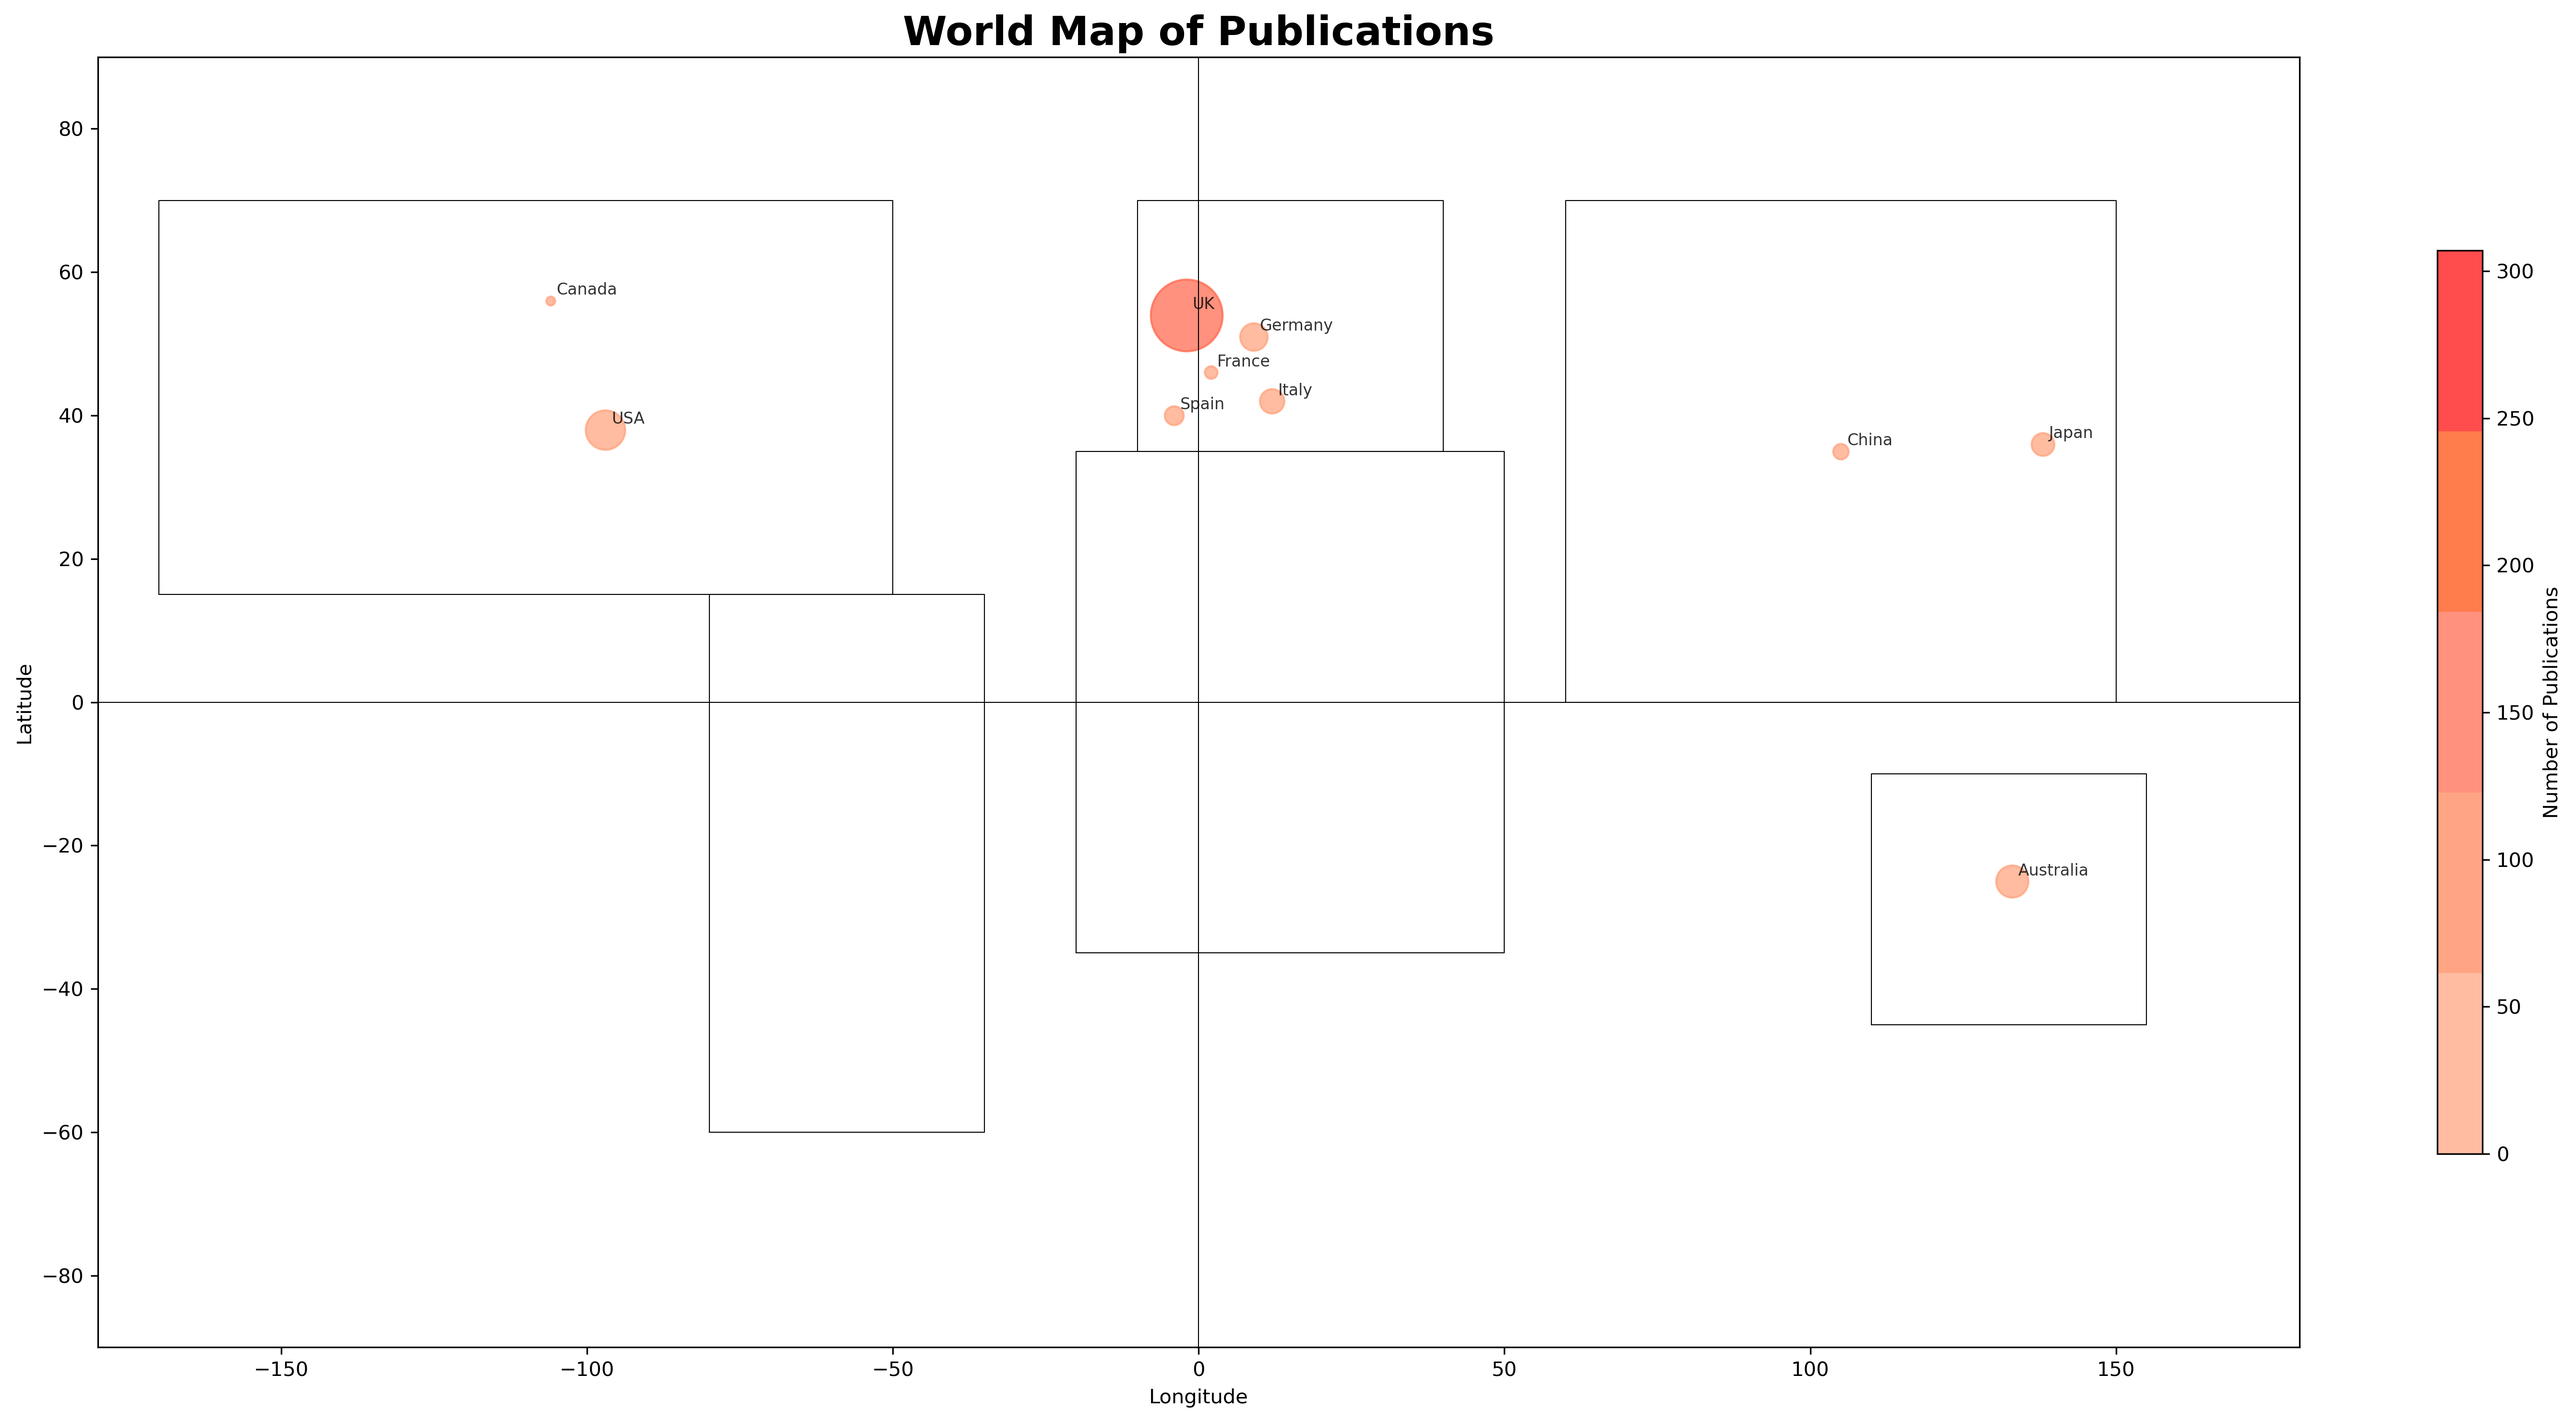
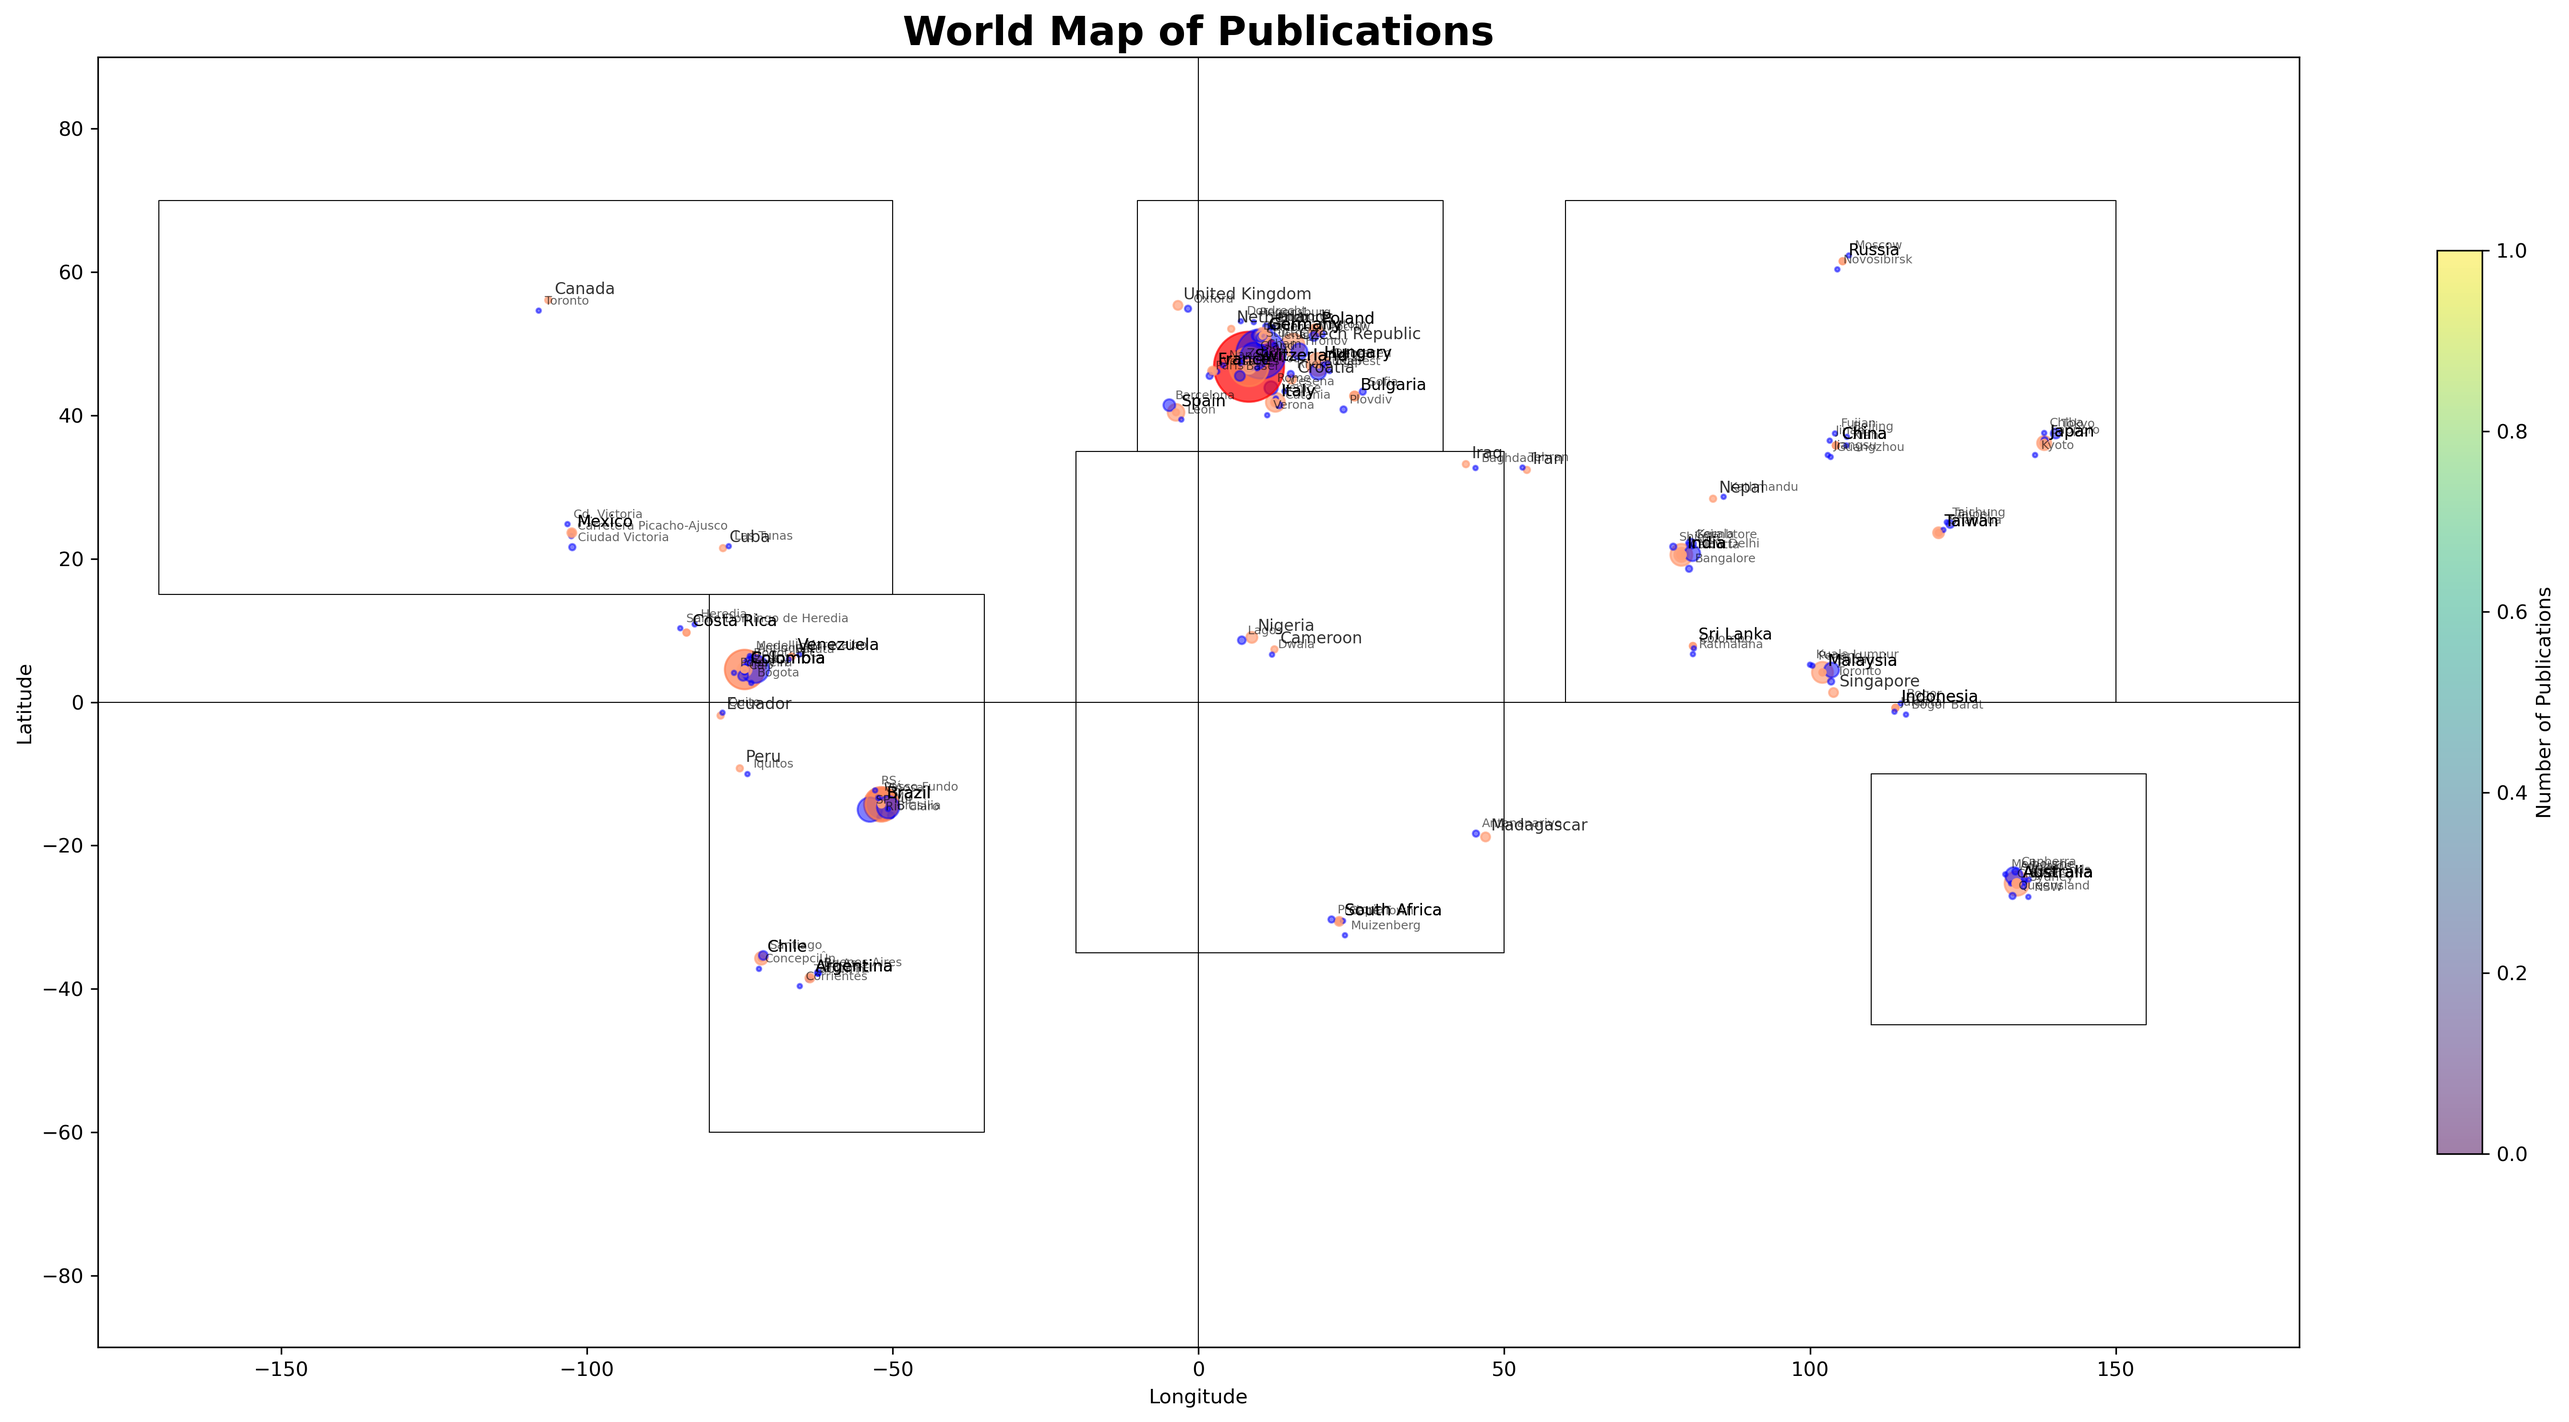
World Map v2.

diff --git a/Scripts/Location_Analysis.py b/Scripts/Location_Analysis.py
@@ -9,32 +9,119 @@ from collections import Counter
 import matplotlib.pyplot as plt
 import numpy as np
 from matplotlib.colors import LinearSegmentedColormap
+import random
 
 def load_json_data(file_path):
     with open(file_path, 'r', encoding='utf-8') as f:
         return json.load(f)
 
 def get_country_coordinates():
-    # This is a simplified dictionary of country coordinates
-    # You may want to expand this with more accurate data
+    # A more comprehensive list of country coordinates
     return {
-        "USA": (38, -97),
-        "UK": (54, -2),
-        "Germany": (51, 9),
-        "France": (46, 2),
-        "Japan": (36, 138),
-        "China": (35, 105),
-        "Australia": (-25, 133),
-        "Canada": (56, -106),
-        "Italy": (42, 12),
-        "Spain": (40, -4),
-        # Add more countries as needed
+        "Afghanistan": (33.93911, 67.709953), "Albania": (41.153332, 20.168331),
+        "Algeria": (28.033886, 1.659626), "Andorra": (42.546245, 1.601554),
+        "Angola": (-11.202692, 17.873887), "Argentina": (-38.416097, -63.616672),
+        "Armenia": (40.069099, 45.038189), "Australia": (-25.274398, 133.775136),
+        "Austria": (47.516231, 14.550072), "Azerbaijan": (40.143105, 47.576927),
+        "Bahrain": (25.930414, 50.637772), "Bangladesh": (23.684994, 90.356331),
+        "Belarus": (53.709807, 27.953389), "Belgium": (50.503887, 4.469936),
+        "Bhutan": (27.514162, 90.433601), "Bolivia": (-16.290154, -63.588653),
+        "Bosnia and Herzegovina": (43.915886, 17.679076), "Botswana": (-22.328474, 24.684866),
+        "Brazil": (-14.235004, -51.92528), "Brunei": (4.535277, 114.727669),
+        "Bulgaria": (42.733883, 25.48583), "Burkina Faso": (12.238333, -1.561593),
+        "Burundi": (-3.373056, 29.918886), "Cambodia": (12.565679, 104.990963),
+        "Cameroon": (7.369722, 12.354722), "Canada": (56.130366, -106.346771),
+        "Central African Republic": (6.611111, 20.939444), "Chad": (15.454166, 18.732207),
+        "Chile": (-35.675147, -71.542969), "China": (35.86166, 104.195397),
+        "Colombia": (4.570868, -74.297333), "Congo": (-0.228021, 15.827659),
+        "Costa Rica": (9.748917, -83.753428), "Croatia": (45.1, 15.2),
+        "Cuba": (21.521757, -77.781167), "Cyprus": (35.126413, 33.429859),
+        "Czech Republic": (49.817492, 15.472962), "Denmark": (56.26392, 9.501785),
+        "Djibouti": (11.825138, 42.590275), "Dominican Republic": (18.735693, -70.162651),
+        "Ecuador": (-1.831239, -78.183406), "Egypt": (26.820553, 30.802498),
+        "El Salvador": (13.794185, -88.89653), "Equatorial Guinea": (1.650801, 10.267895),
+        "Eritrea": (15.179384, 39.782334), "Estonia": (58.595272, 25.013607),
+        "Ethiopia": (9.145, 40.489673), "Fiji": (-16.578193, 179.414413),
+        "Finland": (61.92411, 25.748151), "France": (46.227638, 2.213749),
+        "Gabon": (-0.803689, 11.609444), "Georgia": (42.315407, 43.356892),
+        "Germany": (51.165691, 10.451526), "Ghana": (7.946527, -1.023194),
+        "Greece": (39.074208, 21.824312), "Guatemala": (15.783471, -90.230759),
+        "Guinea": (9.945587, -9.696645), "Haiti": (18.971187, -72.285215),
+        "Honduras": (15.199999, -86.241905), "Hungary": (47.162494, 19.503304),
+        "Iceland": (64.963051, -19.020835), "India": (20.593684, 78.96288),
+        "Indonesia": (-0.789275, 113.921327), "Iran": (32.427908, 53.688046),
+        "Iraq": (33.223191, 43.679291), "Ireland": (53.41291, -8.24389),
+        "Israel": (31.046051, 34.851612), "Italy": (41.87194, 12.56738),
+        "Jamaica": (18.109581, -77.297508), "Japan": (36.204824, 138.252924),
+        "Jordan": (30.585164, 36.238414), "Kazakhstan": (48.019573, 66.923684),
+        "Kenya": (-0.023559, 37.906193), "Kuwait": (29.31166, 47.481766),
+        "Kyrgyzstan": (41.20438, 74.766098), "Laos": (19.85627, 102.495496),
+        "Latvia": (56.879635, 24.603189), "Lebanon": (33.854721, 35.862285),
+        "Lesotho": (-29.609988, 28.233608), "Liberia": (6.428055, -9.429499),
+        "Libya": (26.3351, 17.228331), "Liechtenstein": (47.166, 9.555373),
+        "Lithuania": (55.169438, 23.881275), "Luxembourg": (49.815273, 6.129583),
+        "Madagascar": (-18.766947, 46.869107), "Malawi": (-13.254308, 34.301525),
+        "Malaysia": (4.210484, 101.975766), "Maldives": (3.202778, 73.22068),
+        "Mali": (17.570692, -3.996166), "Malta": (35.937496, 14.375416),
+        "Mauritania": (21.00789, -10.940835), "Mauritius": (-20.348404, 57.552152),
+        "Mexico": (23.634501, -102.552784), "Moldova": (47.411631, 28.369885),
+        "Monaco": (43.750298, 7.412841), "Mongolia": (46.862496, 103.846656),
+        "Montenegro": (42.708678, 19.37439), "Morocco": (31.791702, -7.09262),
+        "Mozambique": (-18.665695, 35.529562), "Myanmar": (21.913965, 95.956223),
+        "Namibia": (-22.95764, 18.49041), "Nepal": (28.394857, 84.124008),
+        "Netherlands": (52.132633, 5.291266), "New Zealand": (-40.900557, 174.885971),
+        "Nicaragua": (12.865416, -85.207229), "Niger": (17.607789, 8.081666),
+        "Nigeria": (9.081999, 8.675277), "North Korea": (40.339852, 127.510093),
+        "North Macedonia": (41.608635, 21.745275), "Norway": (60.472024, 8.468946),
+        "Oman": (21.512583, 55.923255), "Pakistan": (30.375321, 69.345116),
+        "Palestine": (31.952162, 35.233154), "Panama": (8.537981, -80.782127),
+        "Papua New Guinea": (-6.314993, 143.95555), "Paraguay": (-23.442503, -58.443832),
+        "Peru": (-9.189967, -75.015152), "Philippines": (12.879721, 121.774017),
+        "Poland": (51.919438, 19.145136), "Portugal": (39.399872, -8.224454),
+        "Qatar": (25.354826, 51.183884), "Romania": (45.943161, 24.96676),
+        "Russia": (61.52401, 105.318756), "Rwanda": (-1.940278, 29.873888),
+        "Saudi Arabia": (23.885942, 45.079162), "Senegal": (14.497401, -14.452362),
+        "Serbia": (44.016521, 21.005859), "Sierra Leone": (8.460555, -11.779889),
+        "Singapore": (1.352083, 103.819836), "Slovakia": (48.669026, 19.699024),
+        "Slovenia": (46.151241, 14.995463), "Somalia": (5.152149, 46.199616),
+        "South Africa": (-30.559482, 22.937506), "South Korea": (35.907757, 127.766922),
+        "South Sudan": (6.876991, 31.306978), "Spain": (40.463667, -3.74922),
+        "Sri Lanka": (7.873054, 80.771797), "Sudan": (12.862807, 30.217636),
+        "Suriname": (3.919305, -56.027783), "Sweden": (60.128161, 18.643501),
+        "Switzerland": (46.818188, 8.227512), "Syria": (34.802075, 38.996815),
+        "Taiwan": (23.69781, 120.960515), "Tajikistan": (38.861034, 71.276093),
+        "Tanzania": (-6.369028, 34.888822), "Thailand": (15.870032, 100.992541),
+        "Togo": (8.619543, 0.824782), "Tunisia": (33.886917, 9.537499),
+        "Turkey": (38.963745, 35.243322), "Turkmenistan": (38.969719, 59.556278),
+        "Uganda": (1.373333, 32.290275), "Ukraine": (48.379433, 31.16558),
+        "United Arab Emirates": (23.424076, 53.847818), "United Kingdom": (55.378051, -3.435973),
+        "United States": (37.09024, -95.712891), "Uruguay": (-32.522779, -55.765835),
+        "Uzbekistan": (41.377491, 64.585262), "Vatican City": (41.902916, 12.453389),
+        "Venezuela": (6.42375, -66.58973), "Vietnam": (14.058324, 108.277199),
+        "Yemen": (15.552727, 48.516388), "Zambia": (-13.133897, 27.849332),
+        "Zimbabwe": (-19.015438, 29.154857)
     }
+
+def estimate_city_location(city, country, country_coords):
+    if country in country_coords:
+        lat, lon = country_coords[country]
+        # Add some random offset to distinguish cities within the same country
+        lat_offset = random.uniform(-2, 2)
+        lon_offset = random.uniform(-2, 2)
+        return lat + lat_offset, lon + lon_offset
+    return None
 
 def create_world_map_heatmap(bibtex_records, output_dir):
     # Extract locations from the records
-    locations = [record.get('address', '').split(',')[-1].strip() for record in bibtex_records]
-    location_counts = Counter(location for location in locations if location)
+    locations = [record.get('address', '').split(',') for record in bibtex_records]
+    locations = [loc for loc in locations if len(loc) >= 2]
+
+    # Separate cities and countries
+    cities = [loc[-2].strip() for loc in locations]
+    countries = [loc[-1].strip() for loc in locations]
+
+    # Count occurrences
+    location_counts = Counter(zip(cities, countries))
 
     # Get country coordinates
     country_coords = get_country_coordinates()
@@ -67,11 +154,18 @@ def create_world_map_heatmap(bibtex_records, output_dir):
     cmap = LinearSegmentedColormap.from_list('custom', colors, N=n_bins)
 
     # Plot locations
-    for country, count in location_counts.items():
+    for (city, country), count in location_counts.items():
         if country in country_coords:
             lat, lon = country_coords[country]
             plt.scatter(lon, lat, s=count*10, c=[count], cmap=cmap, alpha=0.7, vmin=0, vmax=max(location_counts.values()))
-            plt.annotate(country, (lon, lat), xytext=(3, 3), textcoords="offset points", fontsize=8, alpha=0.8)
+            plt.annotate(f"{country}", (lon, lat), xytext=(3, 3), textcoords="offset points", fontsize=8, alpha=0.8)
+        
+        # Estimate and plot city location
+        city_loc = estimate_city_location(city, country, country_coords)
+        if city_loc:
+            lat, lon = city_loc
+            plt.scatter(lon, lat, s=count*5, c='blue', alpha=0.5)
+            plt.annotate(f"{city}", (lon, lat), xytext=(3, 3), textcoords="offset points", fontsize=6, alpha=0.6)
 
     plt.colorbar(label='Number of Publications', orientation='vertical', shrink=0.7)
     plt.title('World Map of Publications', fontsize=20, fontweight='bold')
